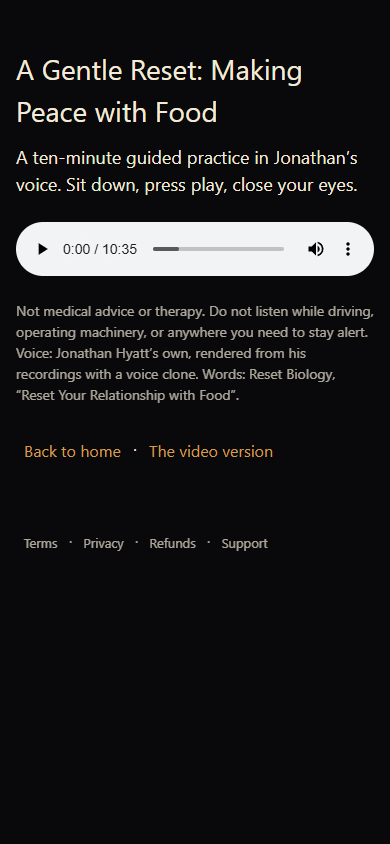
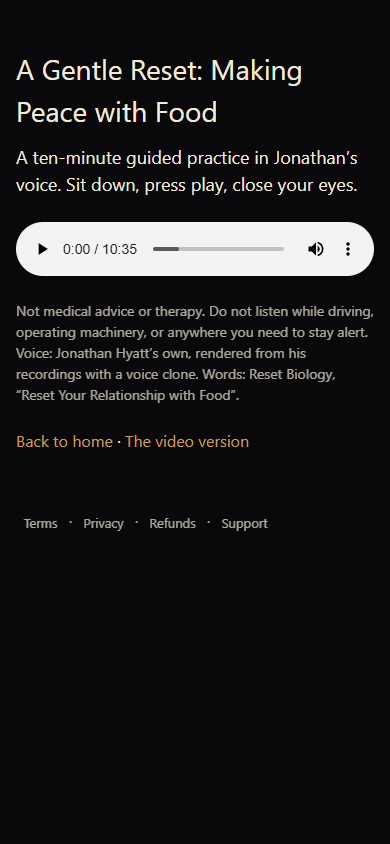
WAIA: finish W7 shelf redirects
Claude-Session: https://claude.ai/code/session_01QwUeFZBaQq6HvUEKRg1tbb

diff --git a/src/app/store/shelf/page.tsx b/src/app/store/shelf/page.tsx
@@ -1,7 +1,18 @@
-import { NAV_LINK_STYLE } from '@/app/legal/LegalLinks';
 import { StoreItemCard, gridStyle } from '@/components/store/StoreItemCard';
 import { DISCLOSURE, renderableItems, shelfHasCommission } from '@/lib/store/items';
 import { SHELF_ITEMS } from '@/lib/store/shelf-items';
+
+const shelfButtonStyle = {
+  alignItems: 'center',
+  border: '1px solid #555',
+  borderRadius: 8,
+  boxSizing: 'border-box',
+  color: 'inherit',
+  display: 'inline-flex',
+  height: 44,
+  padding: '10px 14px',
+  textDecoration: 'none',
+} as const;
 
 export const metadata = {
   title: 'The shelf · What Am I Appreciating Now',
@@ -21,7 +32,13 @@ export default function ShelfPage() {
         <p style={{ fontSize: 14, opacity: 0.75 }} id="disclosure"><strong>Disclosure.</strong> {DISCLOSURE}</p>
       )}
       {items.length === 0 ? (
-        <p style={{ opacity: 0.7 }}>The shelf is being stocked. Nothing is listed yet. Visit <a href="/store" style={NAV_LINK_STYLE}>Store</a> or <a href="/" style={NAV_LINK_STYLE}>Home</a>.</p>
+        <>
+          <p style={{ opacity: 0.7 }}>The shelf is being stocked. Nothing is listed yet. Visit Store or Home</p>
+          <div style={{ display: 'flex', gap: 8 }}>
+            <a href="/store" style={shelfButtonStyle}>Store</a>
+            <a href="/" style={shelfButtonStyle}>Home</a>
+          </div>
+        </>
       ) : (
         <div style={gridStyle}>{items.map((i) => <StoreItemCard key={i.id} item={i} />)}</div>
       )}

diff --git a/src/app/listen/page.tsx b/src/app/listen/page.tsx
@@ -1,4 +1,3 @@
-import { NAV_LINK_STYLE } from '@/app/legal/LegalLinks';
 import { WaiaFooter } from '@/components/WaiaFooter';
 
 export const metadata = {
@@ -21,7 +20,7 @@ export default function ListenPage() {
         Not medical advice or therapy. Do not listen while driving, operating machinery, or anywhere you need to stay alert. Voice: Jonathan Hyatt&rsquo;s own, rendered from his recordings with a voice clone.
         Words: Reset Biology, &ldquo;Reset Your Relationship with Food&rdquo;.
       </p>
-      <p style={{ marginTop: 24 }}><a href="/" style={{ ...NAV_LINK_STYLE, color: '#cf9d4f' }}>Back to home</a> · <a href="/programs/advanced-hypnosis-sessions" style={{ ...NAV_LINK_STYLE, color: '#cf9d4f' }}>The video version</a></p>
+      <p style={{ marginTop: 24 }}><a href="/" style={{ color: '#cf9d4f' }}>Back to home</a> · <a href="/programs/advanced-hypnosis-sessions" style={{ color: '#cf9d4f' }}>The video version</a></p>
       <WaiaFooter />
     </main>
   );

diff --git a/src/middleware.ts b/src/middleware.ts
@@ -77,7 +77,7 @@ export function middleware(request: NextRequest) {
 
   const legacyTarget = LEGACY_REDIRECTS[pathname];
   if (legacyTarget) {
-    return NextResponse.redirect(new URL(legacyTarget, request.url), 308);
+    return NextResponse.redirect(new URL(legacyTarget, request.url), 307);
   }
 
   // Check if this is a Jarvis API request
